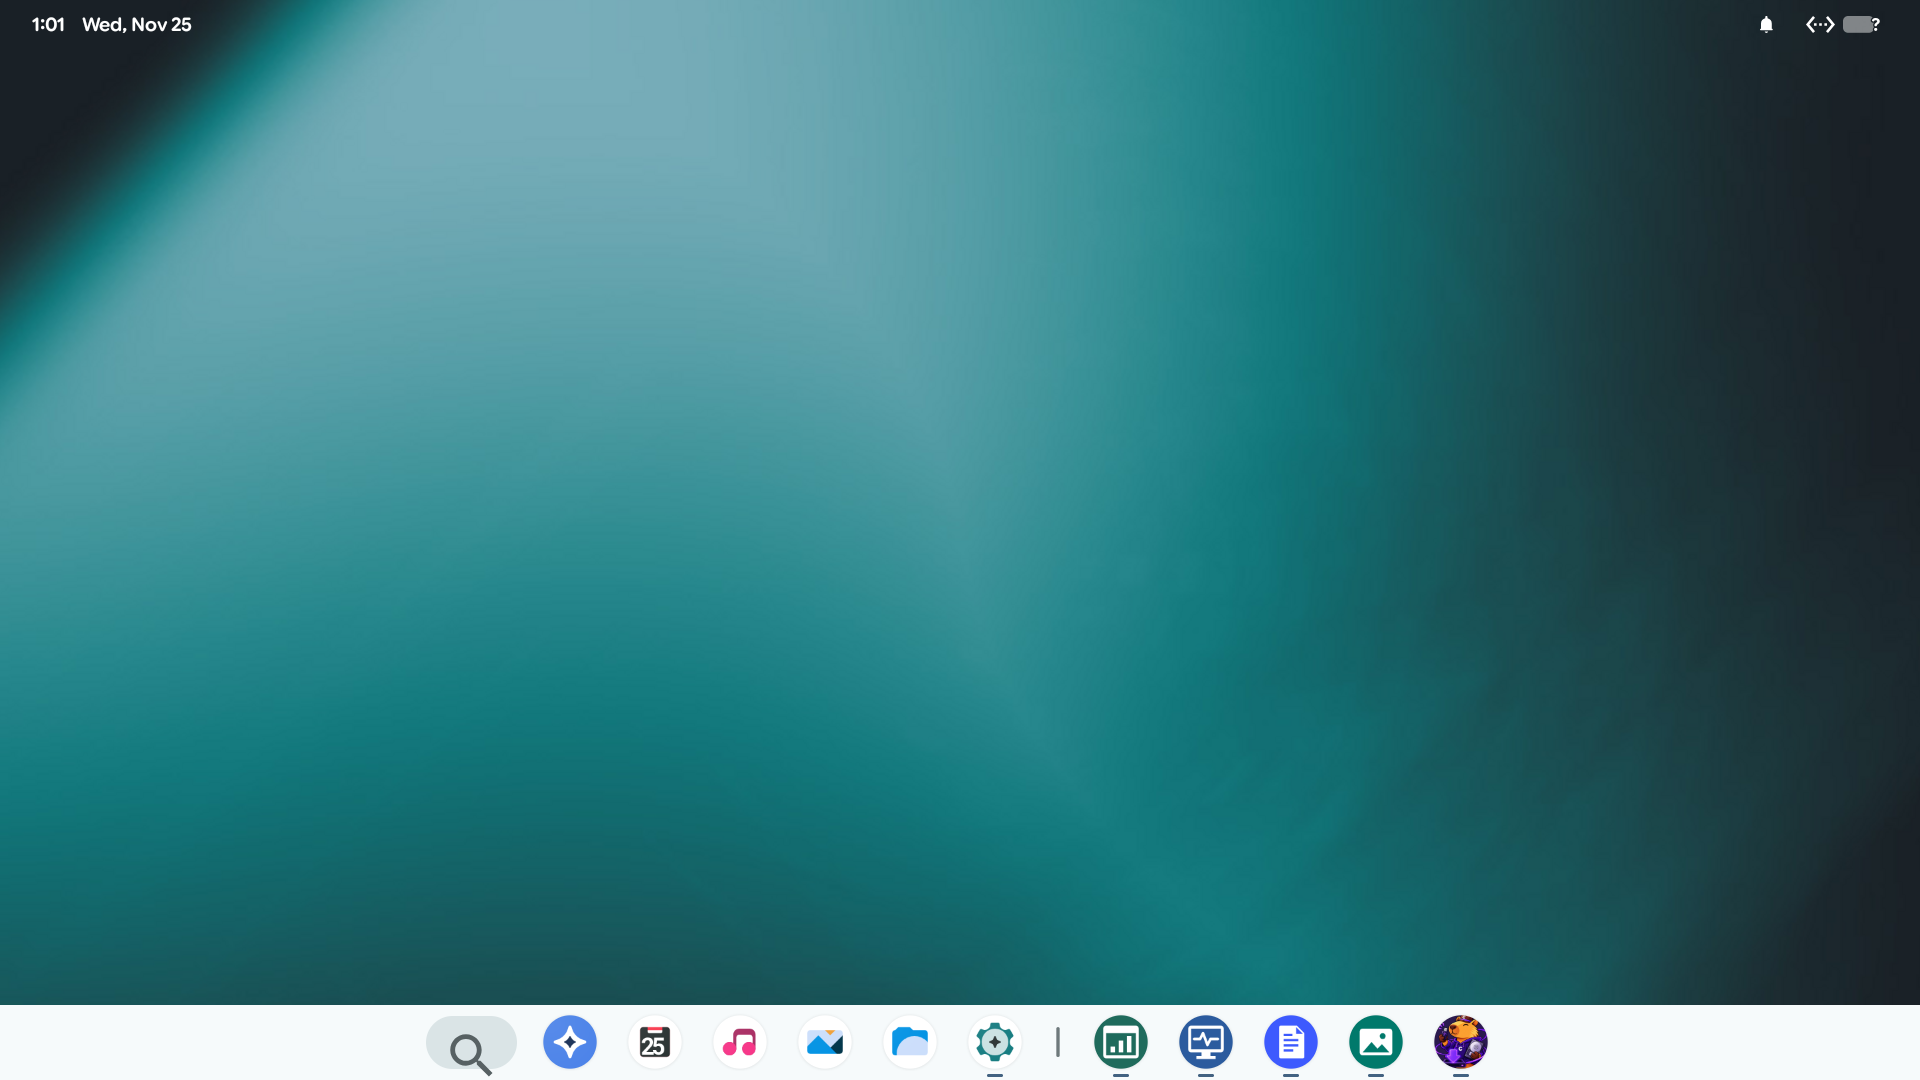
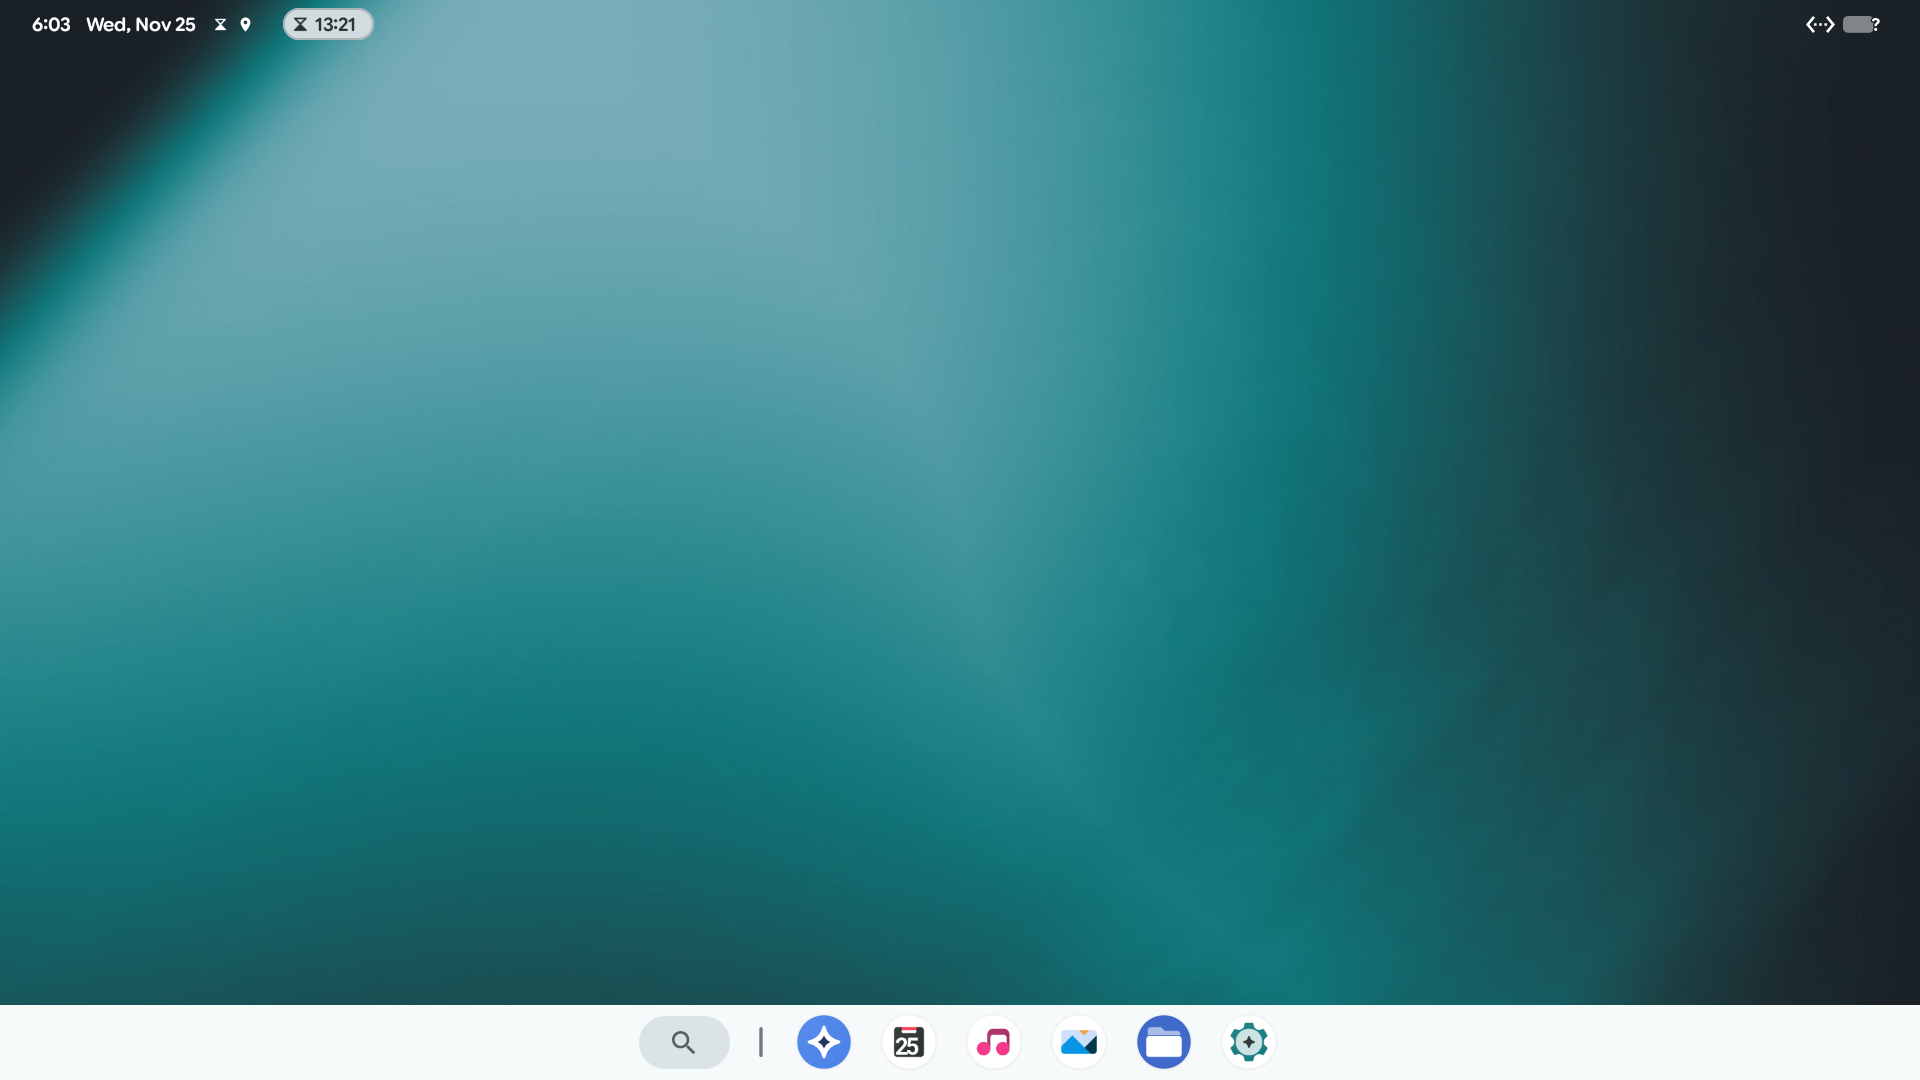
README: screenshots of the current build
Taken in QEMU/KVM at 1920x1080 from the live ISO.

Changed region(s): [[0.2188, 0.9167, 0.7812, 1.0], [0.0, 0.0, 0.2188, 0.0611]]

diff --git a/README.md b/README.md
@@ -305,6 +305,10 @@ First boot.
 
 Desktop after setup.
 
+![Login screen of an installed system.](docs/screenshots/08-login.png)
+
+Login screen of an installed system, from the second boot on.
+
 ## Credits
 
 - [LineageOS](https://lineageos.org) ([GitHub](https://github.com/LineageOS)): the base system and build this is part of.
